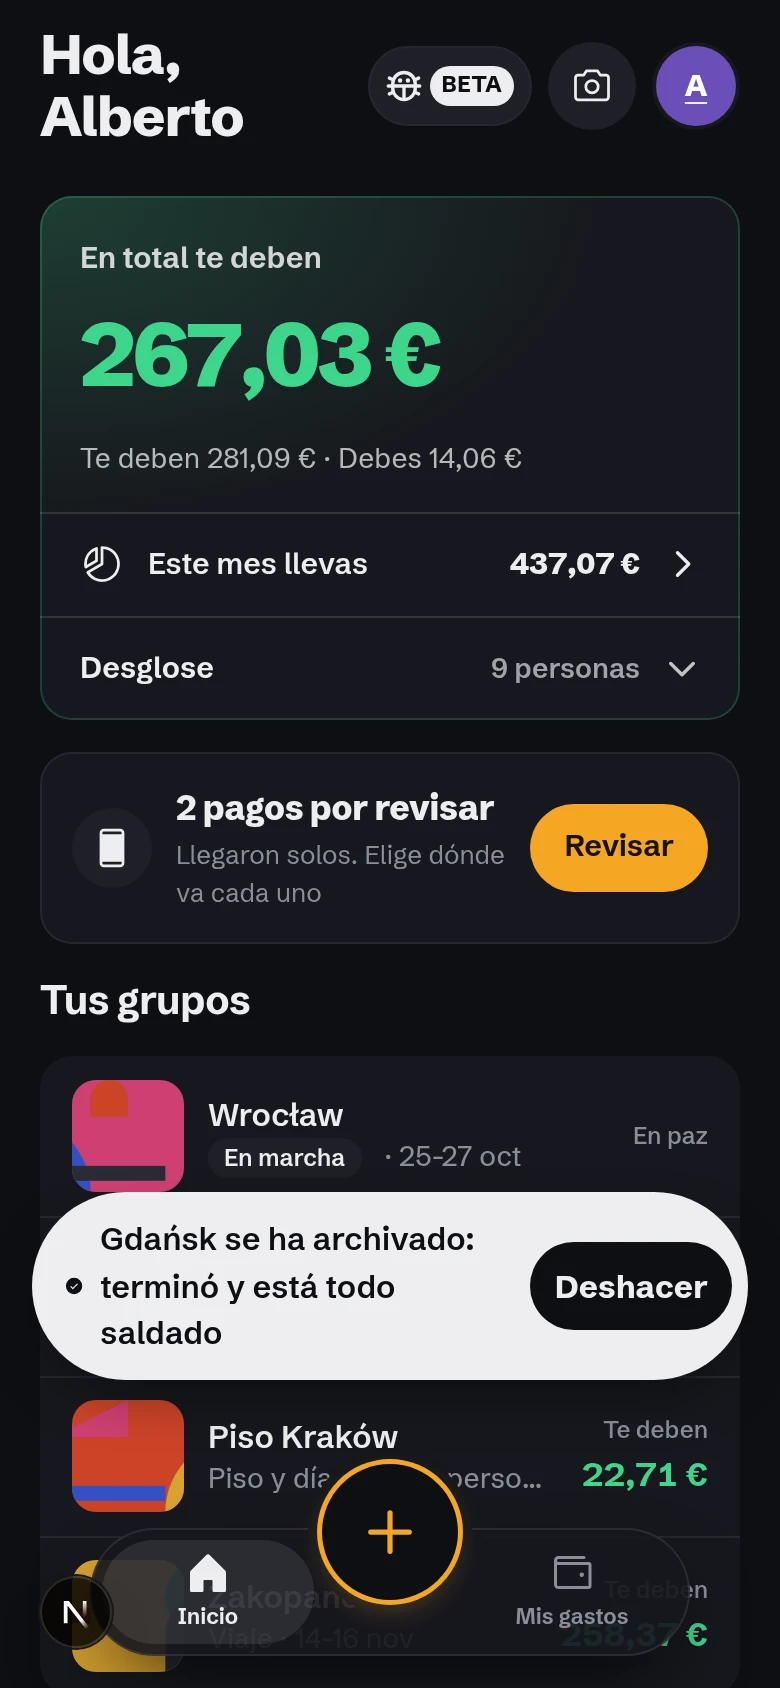
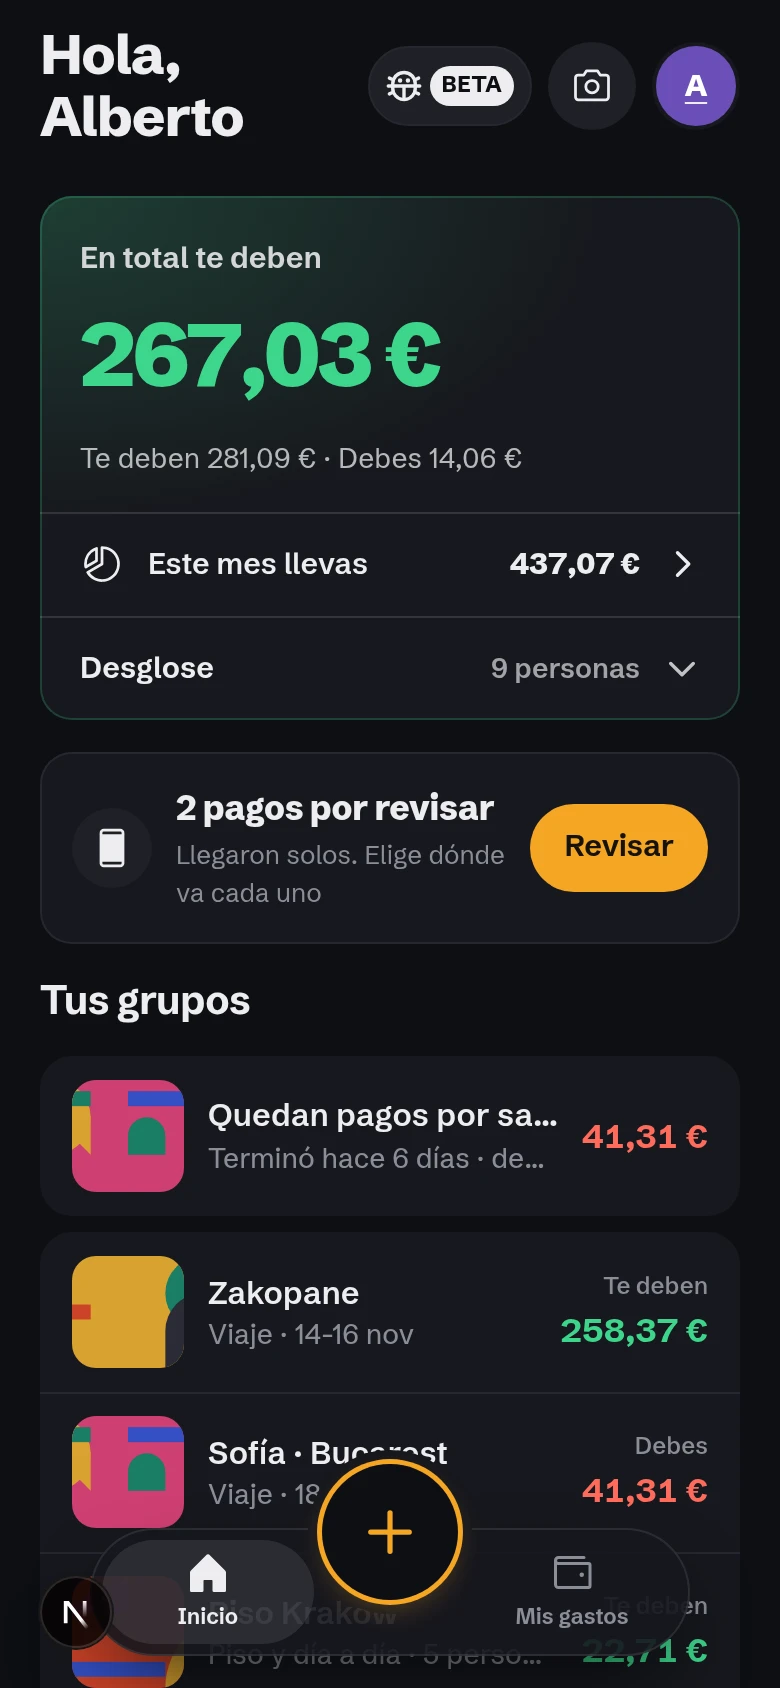
fix(krakount): clean debt overview capture and add group expenses screen

Changed region(s): [[0.0308, 0.6161, 0.9846, 1.0], [0.8308, 0.9242, 0.9231, 0.9858], [0.5846, 0.8626, 0.6769, 0.8934]]

diff --git a/src/components/krakount/KrakountFeatureBento.tsx b/src/components/krakount/KrakountFeatureBento.tsx
@@ -15,6 +15,7 @@ const SHOTS = ASSETS.krakount.shots;
 /** Resolves the content layer's shot keys (for example "shotCaptura") to real captures. */
 const SHOT_BY_KEY: Record<string, MediaAsset> = {
   shotHome: SHOTS.home,
+  shotGroup: SHOTS.group,
   shotCurrency: SHOTS.currency,
   shotItinerary: SHOTS.itinerary,
   shotFlight: SHOTS.flight,
@@ -233,9 +234,21 @@ type GalleryItem = {
 const GALLERY: GalleryItem[] = [
   {
     key: "home",
-    label: { en: "Group expenses", es: "Gastos de grupo" },
-    desc: { en: "Home overview in PLN and EUR with one-tap expense creation.", es: "Vista principal en PLN y EUR con gastos en un toque." },
+    label: { en: "Debt overview", es: "Resumen de tus deudas" },
+    desc: {
+      en: "Home overview in PLN and EUR with total balances across all your groups.",
+      es: "Vista principal en PLN y EUR con el balance total de tus deudas y grupos.",
+    },
     asset: SHOTS.home,
+  },
+  {
+    key: "group",
+    label: { en: "Group expenses", es: "Gastos de grupo" },
+    desc: {
+      en: "Shared expenses in Piso Kraków, open supermarket receipts, and per-person balances.",
+      es: "Gastos compartidos en Piso Kraków, tickets abiertos del súper y saldos por persona.",
+    },
+    asset: SHOTS.group,
   },
   {
     key: "currency",

diff --git a/src/content/assets.ts b/src/content/assets.ts
@@ -125,8 +125,18 @@ export const ASSETS = {
         width: 780,
         height: 1688,
         alt: {
-          en: "Krakount home: 267 EUR owed to you, payments captured on Android to review, and your groups with live trips",
-          es: "Inicio de Krakount: te deben 267 €, pagos capturados en Android por revisar y tus grupos con viajes en marcha",
+          en: "Krakount debt overview: 267 EUR owed to you, captured payments to review, and your active groups",
+          es: "Resumen de deudas en Krakount: te deben 267 €, pagos capturados por revisar y tus grupos activos",
+        },
+      } satisfies MediaAsset,
+
+      group: {
+        src: "/media/krakount/shot-group.webp",
+        width: 780,
+        height: 1688,
+        alt: {
+          en: "Krakount group expenses: Piso Kraków shared expenses, open supermarket receipts, and balances",
+          es: "Gastos de grupo en Krakount: gastos compartidos de Piso Kraków, tickets abiertos del súper y saldos",
         },
       } satisfies MediaAsset,
 
